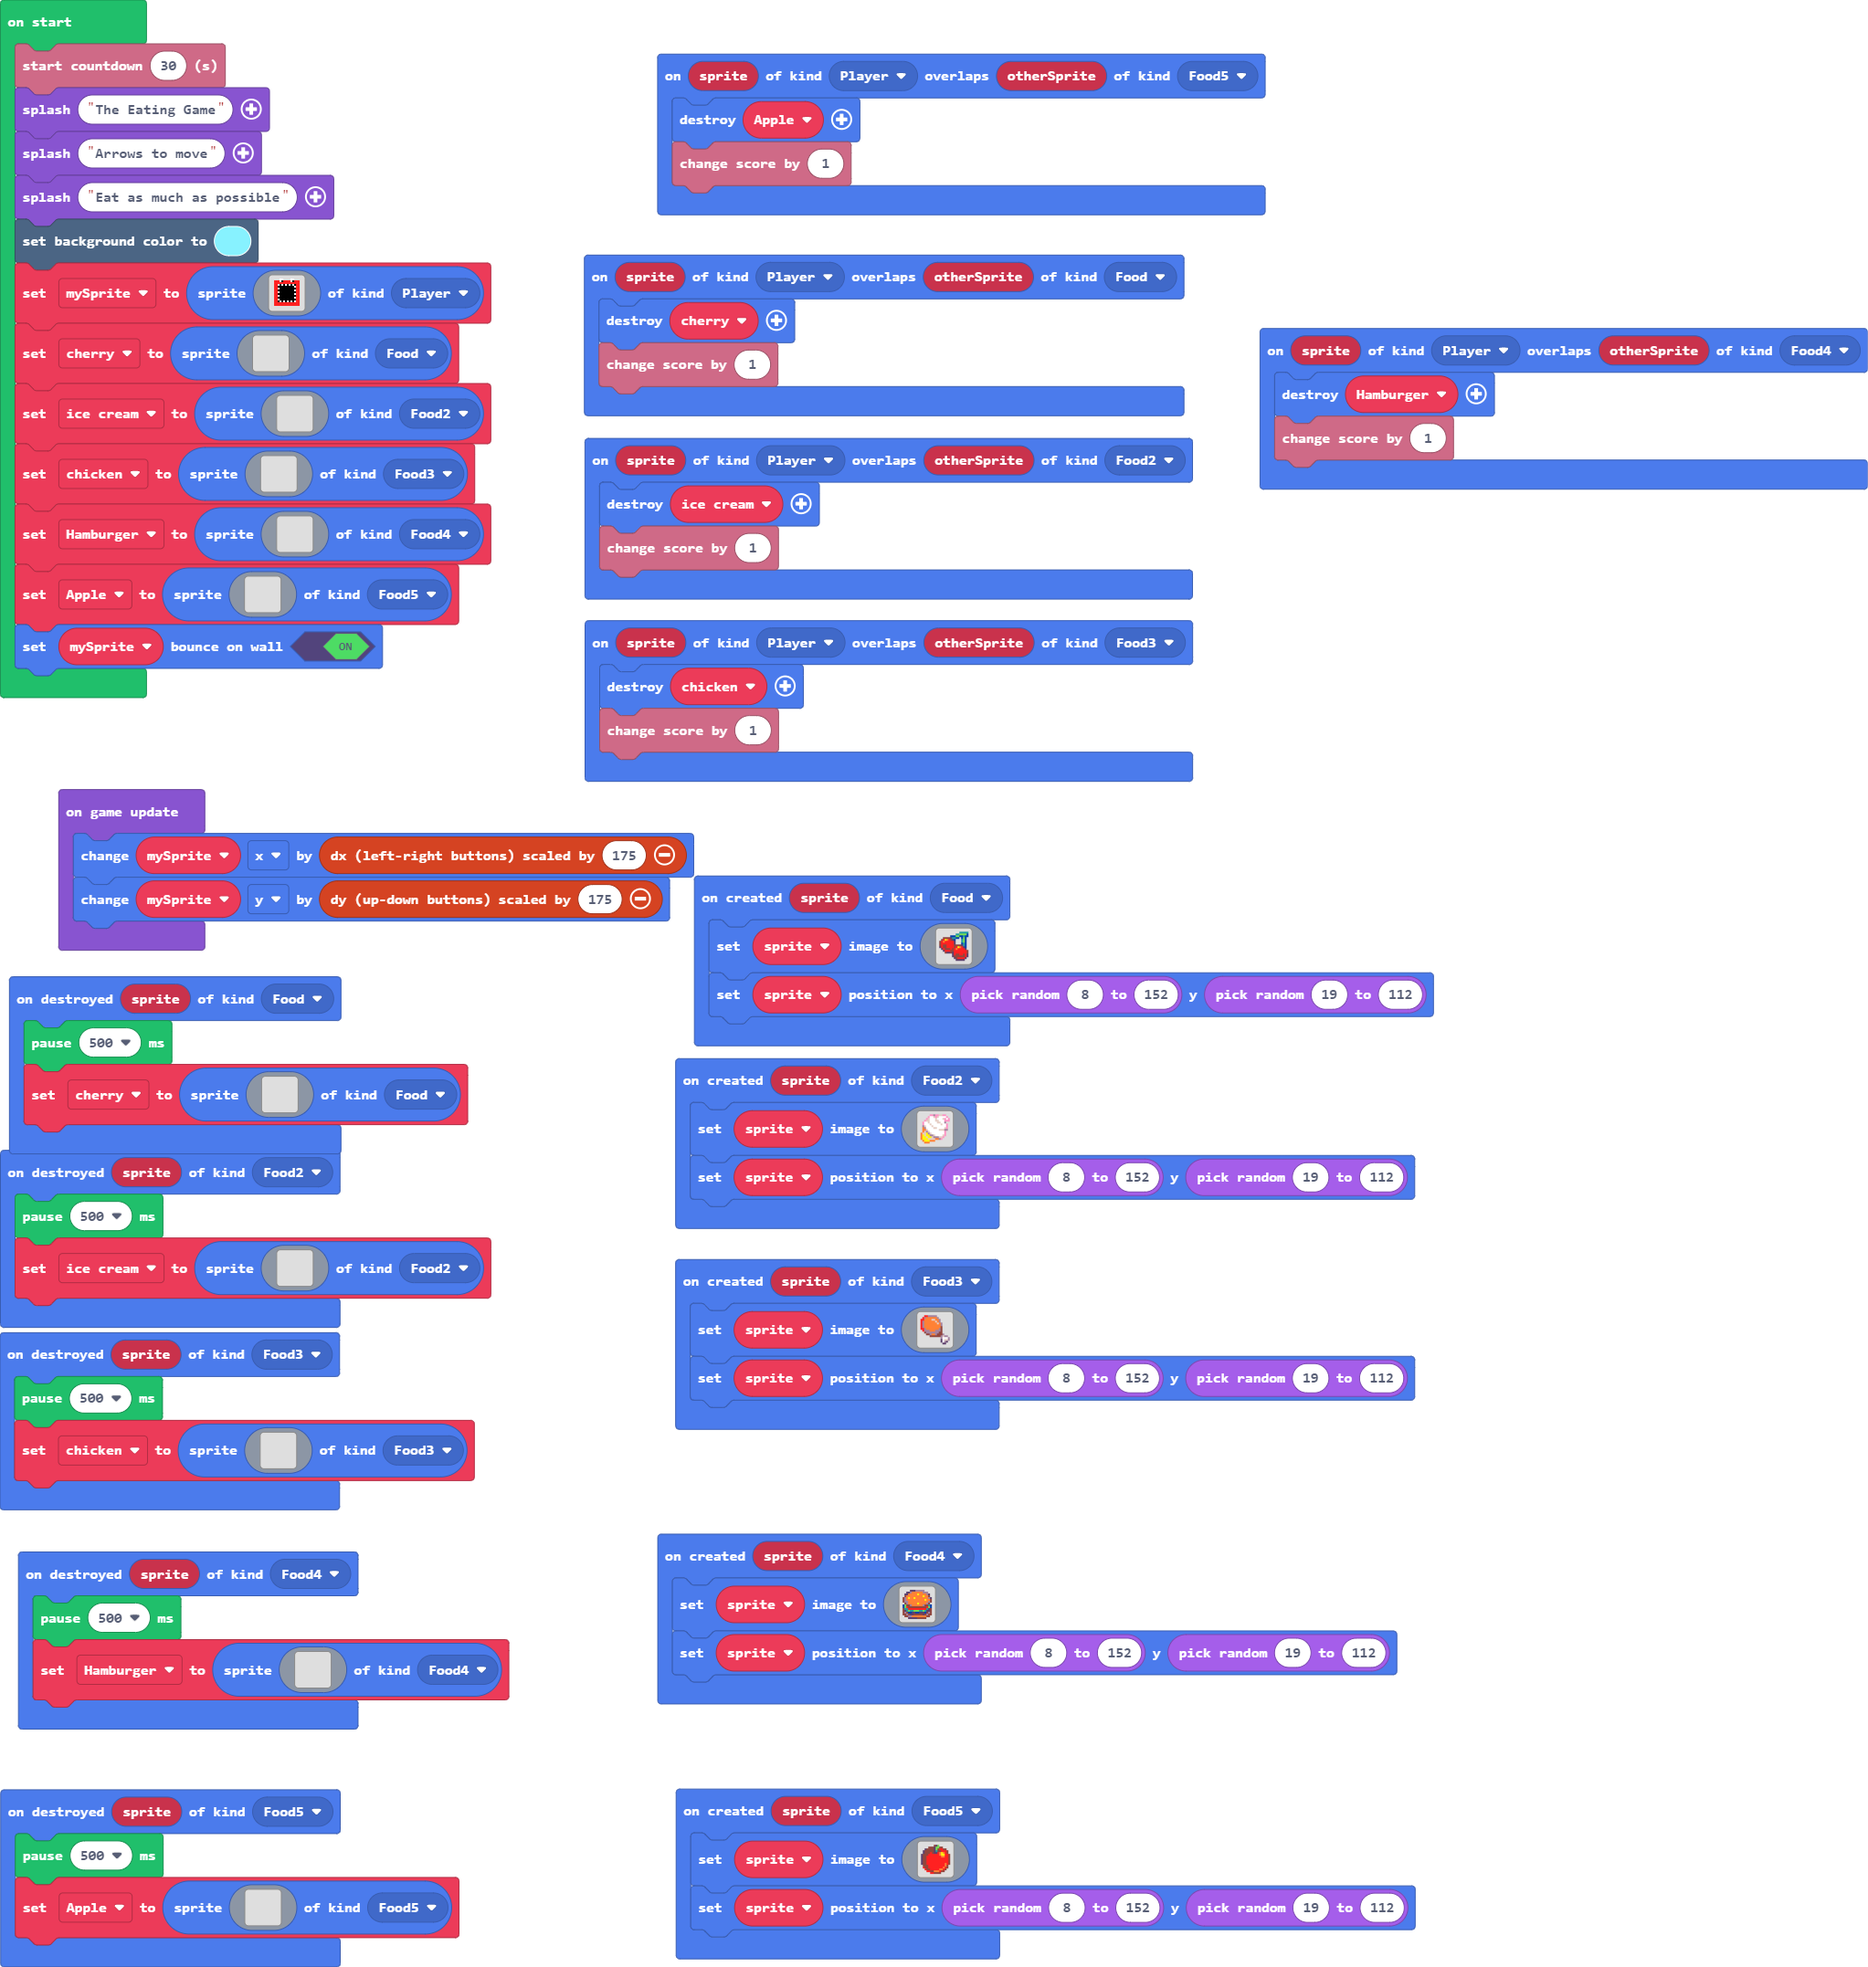
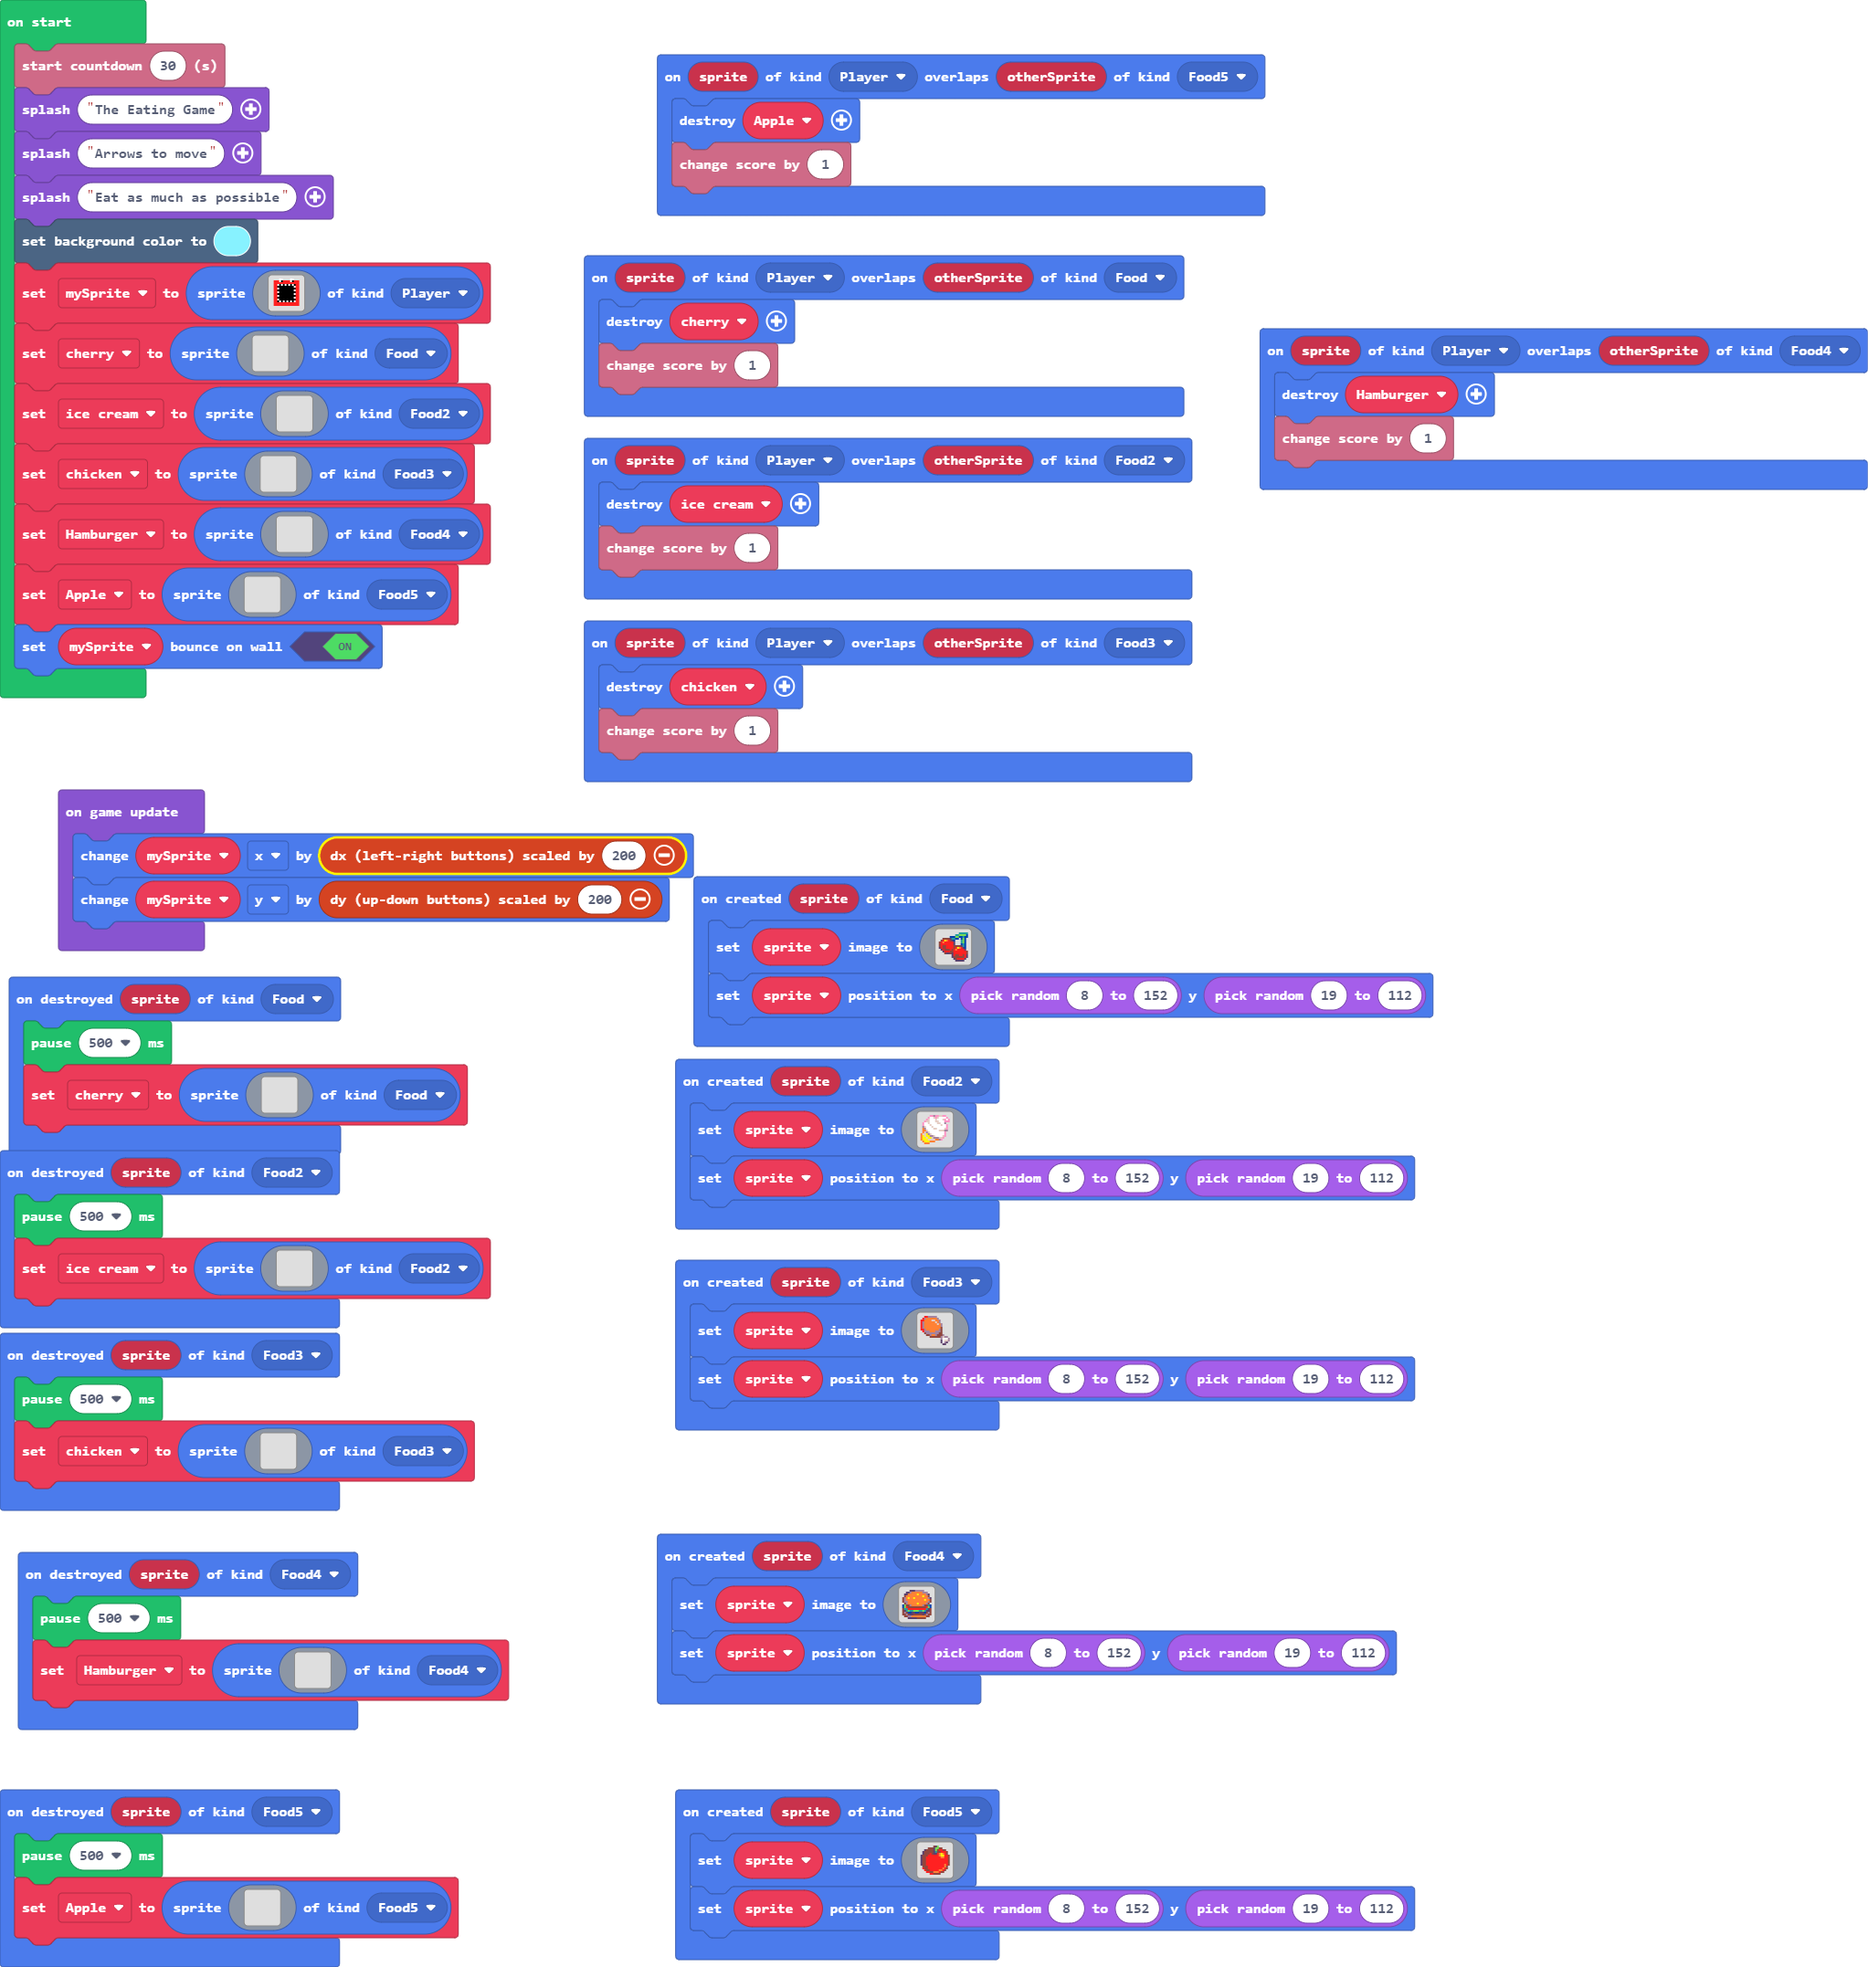
Update main.blocks, main.ts

diff --git a/main.ts b/main.ts
@@ -355,6 +355,6 @@ Apple = sprites.create(img`
     `, SpriteKind.Food5)
 mySprite.setBounceOnWall(true)
 game.onUpdate(function () {
-    mySprite.x += controller.dx(175)
-    mySprite.y += controller.dy(175)
+    mySprite.x += controller.dx(200)
+    mySprite.y += controller.dy(200)
 })
